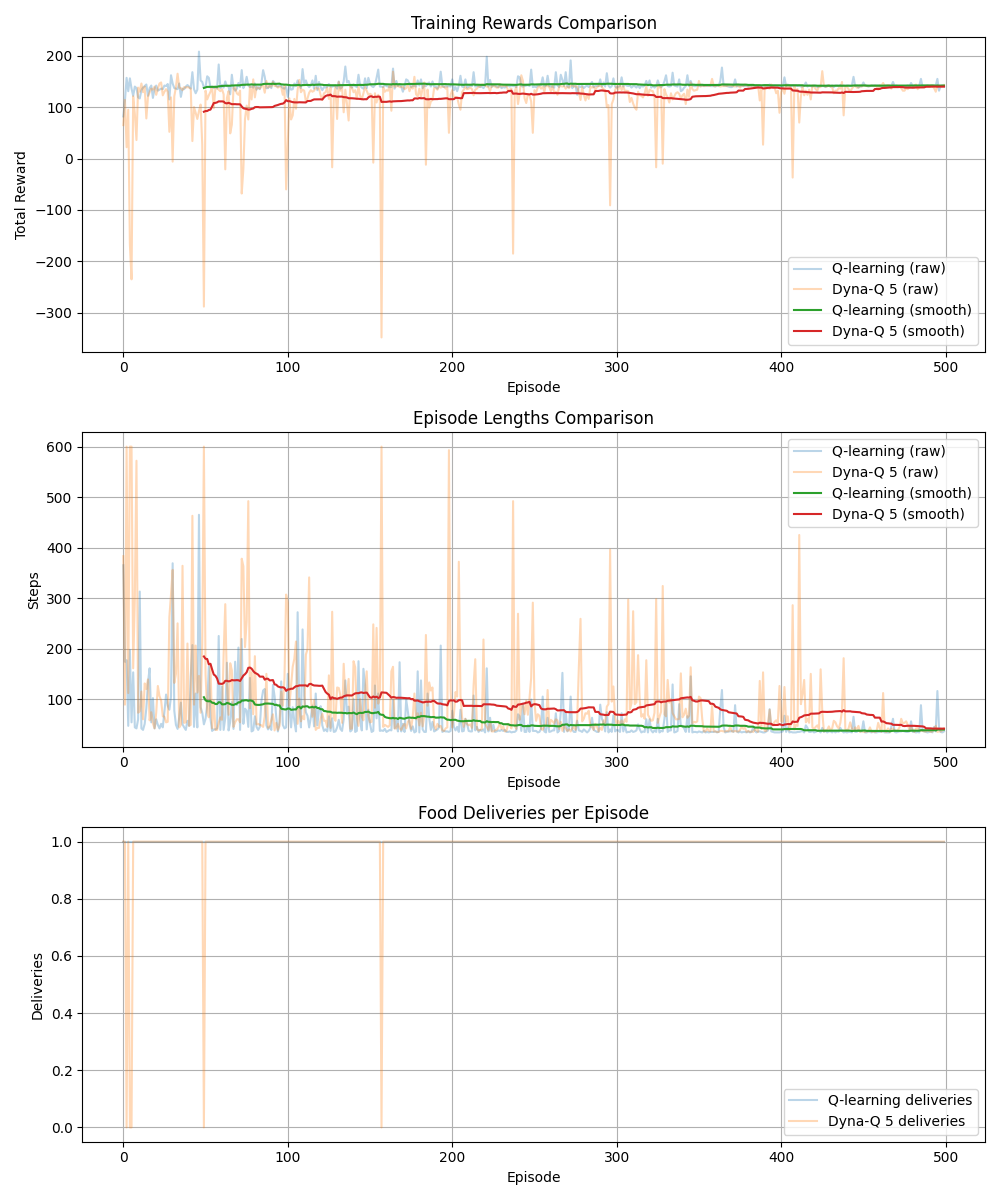
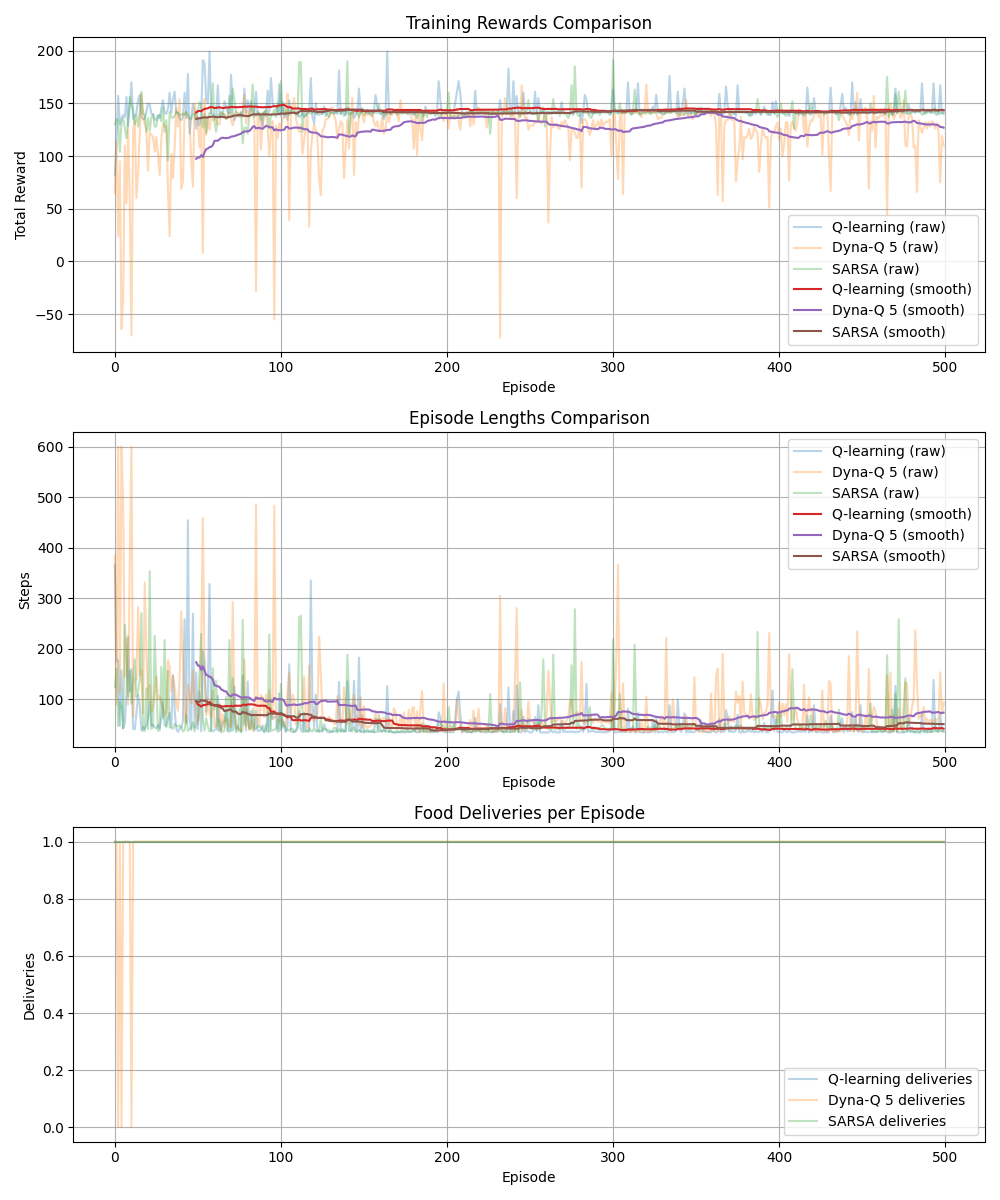
adding SARSA and comparison

diff --git a/testbed.py b/testbed.py
@@ -20,6 +20,7 @@ os.environ.setdefault("XDG_CACHE_HOME", os.path.join(tempfile.gettempdir(), "mat
 from hex_grid_world import HexGridWorld
 from q_learning import QLearningAgent
 from dyna_q import DynaQAgent
+from sarsa import SARSAAgent
 
 
 def train_agent(
@@ -183,9 +184,10 @@ def compare_q_vs_dyna(
     seed: Optional[int] = 42,
     output_path: Optional[str] = None,
     timestamped: bool = False,
+    include_sarsa: bool = True,
 ) -> None:
     """
-    Train both Q-learning and Dyna-Q (with the same hyperparameters) and plot a side-by-side comparison.
+    Train Q-learning, Dyna-Q (with the same hyperparameters) and optionally SARSA, then plot a side-by-side comparison.
     Adds rolling mean smoothing and logs deliveries/eval summaries.
     """
     # Common hyperparams and seed for reproducibility
@@ -216,6 +218,21 @@ def compare_q_vs_dyna(
         seed=seed,
     )
 
+    sarsa_rewards = sarsa_lengths = sarsa_deliveries = sarsa_agent = None
+    if include_sarsa:
+        sarsa_rewards, sarsa_lengths, sarsa_deliveries, sarsa_agent = train_agent(
+            animate=False,
+            agent_cls=SARSAAgent,
+            episodes=episodes,
+            epsilon=epsilon,
+            epsilon_decay=epsilon_decay,
+            min_epsilon=min_epsilon,
+            max_steps=max_steps,
+            collect_deliveries=True,
+            return_agent=True,
+            seed=seed,
+        )
+
     import matplotlib
     matplotlib.use("Agg")
     import matplotlib.pyplot as plt
@@ -230,12 +247,17 @@ def compare_q_vs_dyna(
     # Rewards with smoothing
     axes[0].plot(q_rewards, alpha=0.3, label="Q-learning (raw)")
     axes[0].plot(dyna_rewards, alpha=0.3, label=f"Dyna-Q {planning_steps} (raw)")
+    if sarsa_rewards:
+        axes[0].plot(sarsa_rewards, alpha=0.3, label="SARSA (raw)")
     q_smooth = rolling_mean(q_rewards)
     d_smooth = rolling_mean(dyna_rewards)
+    s_smooth = rolling_mean(sarsa_rewards) if sarsa_rewards else []
     if len(q_smooth) > 0:
         axes[0].plot(range(smooth_window - 1, smooth_window - 1 + len(q_smooth)), q_smooth, label="Q-learning (smooth)")
     if len(d_smooth) > 0:
         axes[0].plot(range(smooth_window - 1, smooth_window - 1 + len(d_smooth)), d_smooth, label=f"Dyna-Q {planning_steps} (smooth)")
+    if len(s_smooth) > 0:
+        axes[0].plot(range(smooth_window - 1, smooth_window - 1 + len(s_smooth)), s_smooth, label="SARSA (smooth)")
     axes[0].set_title('Training Rewards Comparison')
     axes[0].set_xlabel('Episode')
     axes[0].set_ylabel('Total Reward')
@@ -245,12 +267,17 @@ def compare_q_vs_dyna(
     # Lengths with smoothing
     axes[1].plot(q_lengths, alpha=0.3, label="Q-learning (raw)")
     axes[1].plot(dyna_lengths, alpha=0.3, label=f"Dyna-Q {planning_steps} (raw)")
+    if sarsa_lengths:
+        axes[1].plot(sarsa_lengths, alpha=0.3, label="SARSA (raw)")
     ql_smooth = rolling_mean(q_lengths)
     dl_smooth = rolling_mean(dyna_lengths)
+    sl_smooth = rolling_mean(sarsa_lengths) if sarsa_lengths else []
     if len(ql_smooth) > 0:
         axes[1].plot(range(smooth_window - 1, smooth_window - 1 + len(ql_smooth)), ql_smooth, label="Q-learning (smooth)")
     if len(dl_smooth) > 0:
         axes[1].plot(range(smooth_window - 1, smooth_window - 1 + len(dl_smooth)), dl_smooth, label=f"Dyna-Q {planning_steps} (smooth)")
+    if len(sl_smooth) > 0:
+        axes[1].plot(range(smooth_window - 1, smooth_window - 1 + len(sl_smooth)), sl_smooth, label="SARSA (smooth)")
     axes[1].set_title('Episode Lengths Comparison')
     axes[1].set_xlabel('Episode')
     axes[1].set_ylabel('Steps')
@@ -260,15 +287,18 @@ def compare_q_vs_dyna(
     # Deliveries
     axes[2].plot(q_deliveries, alpha=0.3, label="Q-learning deliveries")
     axes[2].plot(dyna_deliveries, alpha=0.3, label=f"Dyna-Q {planning_steps} deliveries")
+    if sarsa_deliveries:
+        axes[2].plot(sarsa_deliveries, alpha=0.3, label="SARSA deliveries")
     axes[2].set_title('Food Deliveries per Episode')
     axes[2].set_xlabel('Episode')
     axes[2].set_ylabel('Deliveries')
     axes[2].grid(True)
     axes[2].legend()
 
-    base_dir = os.path.join("results", "comparisons")
+    # Keep SARSA comparisons in their own folder; overwrite by default unless timestamped=True.
+    base_dir = os.path.join("results", "comparisons_with_sarsa" if include_sarsa else "comparisons")
     if timestamped:
-        run_dir = os.path.join(base_dir, datetime.now().strftime("%Y%m%d_%H%M%S"))
+        run_dir = os.path.join(base_dir, datetime.datetime.now().strftime("%Y%m%d_%H%M%S"))
     else:
         run_dir = base_dir
     os.makedirs(run_dir, exist_ok=True)
@@ -287,7 +317,7 @@ def compare_q_vs_dyna(
             epsilon=0.0,
             epsilon_decay=1.0,
             min_epsilon=0.0,
-            **({} if agent_cls is QLearningAgent else {"planning_steps": planning_steps}),
+            **({"planning_steps": planning_steps} if agent_cls is DynaQAgent else {}),
         )
         eval_agent.q_table = dict(q_table)
         eval_world = HexGridWorld(train=False, worldType=1, animate=False)
@@ -322,9 +352,12 @@ def compare_q_vs_dyna(
     discount_factor = 0.9
     q_eval = greedy_eval(QLearningAgent, q_agent.q_table)
     d_eval = greedy_eval(DynaQAgent, dyna_agent.q_table)
+    s_eval = greedy_eval(SARSAAgent, sarsa_agent.q_table) if include_sarsa else None
     print("Greedy eval (50 eps):")
     print(f"  Q-learning:    avg_reward={q_eval[0]:.2f}, avg_steps={q_eval[1]:.1f}, avg_deliveries={q_eval[2]:.2f}")
     print(f"  Dyna-Q({planning_steps}): avg_reward={d_eval[0]:.2f}, avg_steps={d_eval[1]:.1f}, avg_deliveries={d_eval[2]:.2f}")
+    if s_eval:
+        print(f"  SARSA:         avg_reward={s_eval[0]:.2f}, avg_steps={s_eval[1]:.1f}, avg_deliveries={s_eval[2]:.2f}")
 
 
 def compare_q_vs_dyna_suite(
@@ -340,6 +373,7 @@ def compare_q_vs_dyna_suite(
 ) -> None:
     """
     Run multiple compare_q_vs_dyna configurations (planning_depth x epsilon schedule) and save separate plots.
+    Each comparison includes Q-learning, Dyna-Q, and SARSA.
     """
     base_dir = os.path.join("results", "comparisons")
     if timestamped:

diff --git a/test_runner.py b/test_runner.py
@@ -8,15 +8,21 @@ How to use:
 Available tests:
 - compare_q_vs_dyna_single(): Q-learning vs Dyna-Q (planning_steps configurable).
 - compare_q_vs_dyna_suite(): small grid over planning/epsilon/decay; saves plots.
+- compare_q_dyna_sarsa(): Q-learning vs Dyna-Q vs SARSA; overwrites unless timestamped.
+- sarsa_smoothed_plot(): single SARSA run with ε-decay and a rolling-mean plot.
 - hyperparameter_sweep(): Q-learning vs Dyna-Q (planning 3/5) over a small lr/gamma/eps/decay grid; saves CSV and plots.
 
 Results paths:
-- Comparisons: results/comparisons/ (timestamped if you pass timestamped=True).
+- Comparisons (Q vs Dyna): results/comparisons/ (timestamped if you pass timestamped=True).
+- Comparisons (with SARSA): results/comparisons_with_sarsa/ (timestamped optional).
+- SARSA smoothed plot: defaults to training_results_sarsa_smoothed.png (set output_path to override).
 - Hyperparameter sweeps: results/hyperparameter_sweeps/ (timestamped optional).
 """
 
 from testbed import compare_q_vs_dyna, compare_q_vs_dyna_suite
 from testbed_hyperparameters import main as hyperparameter_sweep
+from testbed import train_agent
+from sarsa import SARSAAgent
 
 
 def compare_q_vs_dyna_single():
@@ -35,6 +41,26 @@ def compare_q_vs_dyna_single():
         seed=42,
         timestamped=False,  # set True to avoid overwriting
         output_path=None,   # default path if None
+    )
+
+
+def compare_q_dyna_sarsa():
+    """
+    Single comparison that always includes SARSA alongside Q-learning and Dyna-Q.
+    Uses the same knobs as compare_q_vs_dyna_single, but forces include_sarsa=True.
+    """
+    compare_q_vs_dyna(
+        planning_steps=5,
+        epsilon=0.3,
+        epsilon_decay=0.99,
+        min_epsilon=0.05,
+        episodes=500,
+        max_steps=600,
+        smooth_window=50,
+        seed=42,
+        timestamped=False,
+        output_path=None,
+        include_sarsa=True,
     )
 
 
@@ -64,12 +90,60 @@ def hyperparameter_sweep_run():
     hyperparameter_sweep(timestamped=False)  # set True for dated run folder
 
 
+def sarsa_smoothed_plot(
+    episodes: int = 500,
+    epsilon: float = 0.3,
+    epsilon_decay: float = 0.995,
+    min_epsilon: float = 0.05,
+    max_steps: int = 600,
+    window: int = 50,
+    seed: int | None = None,
+    output_path: str = "training_results_sarsa_smoothed.png",
+):
+    """
+    Run SARSA with an epsilon schedule and save a rolling-mean rewards plot.
+    """
+    import numpy as np
+    import matplotlib
+    matplotlib.use("Agg")
+    import matplotlib.pyplot as plt
+
+    rewards, _ = train_agent(
+        animate=False,
+        agent_cls=SARSAAgent,
+        agent_kwargs={"epsilon_decay": epsilon_decay, "min_epsilon": min_epsilon},
+        episodes=episodes,
+        epsilon=epsilon,
+        epsilon_decay=epsilon_decay,
+        min_epsilon=min_epsilon,
+        max_steps=max_steps,
+        seed=seed,
+    )
+
+    weights = np.ones(window) / window
+    smooth = np.convolve(rewards, weights, mode="valid") if len(rewards) >= window else []
+
+    fig, ax = plt.subplots()
+    ax.plot(rewards, alpha=0.3, label="raw")
+    if len(smooth) > 0:
+        ax.plot(range(window - 1, window - 1 + len(smooth)), smooth, label=f"rolling mean ({window})")
+    ax.set_title(f"SARSA rewards (ε={epsilon}, decay={epsilon_decay}, min={min_epsilon}, episodes={episodes})")
+    ax.set_xlabel("Episode")
+    ax.set_ylabel("Total Reward")
+    ax.legend()
+    plt.tight_layout()
+    plt.savefig(output_path)
+    print(f"SARSA smoothed plot saved to {output_path}")
+
+
 def main():
     # Uncomment the test(s) you want to run:
 
     # compare_q_vs_dyna_single()
+    # compare_q_dyna_sarsa()
     # compare_q_vs_dyna_grid()
     # hyperparameter_sweep_run()
+    # sarsa_smoothed_plot()
 
     print("No tests selected. Edit test_runner.py main() to uncomment a test.")
 

diff --git a/src/sarsa.py b/src/sarsa.py
@@ -1,0 +1,70 @@
+"""
+SARSA implementation for ant agents.
+On-policy TD control using epsilon-greedy behavior/target.
+"""
+
+import pickle
+import random
+from typing import Dict, Tuple, Any, Optional
+
+
+class SARSAAgent:
+    def __init__(
+        self,
+        learning_rate: float = 0.1,
+        discount_factor: float = 0.9,
+        epsilon: float = 0.9,
+        epsilon_decay: float = 1,
+        min_epsilon: float = 0.01,
+        n_actions: int = 5,
+        seed: Optional[int] = None,
+    ):
+        self.learning_rate = learning_rate
+        self.discount_factor = discount_factor
+        self.epsilon = epsilon
+        self.epsilon_decay = epsilon_decay
+        self.min_epsilon = min_epsilon
+        self.n_actions = n_actions
+        self.q_table: Dict[Tuple[Any, int], float] = {}
+        self.rng = random.Random(seed)
+
+    def _select_action(self, state: Tuple) -> int:
+        if self.rng.random() < self.epsilon:
+            return self.rng.choice(range(self.n_actions))
+        q_values = [self.q_table.get((state, a), 0.0) for a in range(self.n_actions)]
+        max_q = max(q_values)
+        best_actions = [a for a, q in enumerate(q_values) if q == max_q]
+        return self.rng.choice(best_actions)
+
+    def step(self, state: Tuple, env_step_func) -> Tuple[int, int, Tuple]:
+        # On-policy SARSA update using the next epsilon-greedy action with terminal handling.
+        action = self._select_action(state)
+        reward, next_state, terminated, truncated = env_step_func(action)
+
+        # Only bootstrap if the episode continues.
+        if terminated or truncated:
+            td_target = reward
+        else:
+            next_action = self._select_action(next_state)
+            next_q = self.q_table.get((next_state, next_action), 0.0)
+            td_target = reward + self.discount_factor * next_q
+
+        current_q = self.q_table.get((state, action), 0.0)
+        td_error = td_target - current_q
+        self.q_table[(state, action)] = current_q + self.learning_rate * td_error
+
+        return action, reward, next_state
+
+    def decay_epsilon(self):
+        self.epsilon = max(self.min_epsilon, self.epsilon * self.epsilon_decay)
+
+    def save_q_table(self, filename: str):
+        with open(filename, 'wb') as f:
+            pickle.dump(self.q_table, f)
+
+    def load_q_table(self, filename: str):
+        try:
+            with open(filename, 'rb') as f:
+                self.q_table = pickle.load(f)
+        except FileNotFoundError:
+            print(f"Q-table file {filename} not found. Starting with empty Q-table.")

diff --git a/testbed_hyperparameters.py b/testbed_hyperparameters.py
@@ -20,6 +20,7 @@ import matplotlib.pyplot as plt
 from hex_grid_world import HexGridWorld
 from q_learning import QLearningAgent
 from dyna_q import DynaQAgent
+from sarsa import SARSAAgent
 
 
 def train_agent(
@@ -33,6 +34,7 @@ def train_agent(
     animate: bool = False
 ) -> Tuple[List[int], List[int], List[int], object, object]:
     min_epsilon = 0.01
+    algo_label = agent_cls.__name__
 
     world = HexGridWorld(train=True, worldType=1, animate=animate)
 
@@ -53,7 +55,7 @@ def train_agent(
     episode_lengths = []
     episode_deliveries = []
 
-    print(f"Training with Q-learning: lr={learning_rate}, γ={discount_factor}, ε={epsilon}, ε_decay={epsilon_decay}")
+    print(f"Training with {algo_label}: lr={learning_rate}, γ={discount_factor}, ε={epsilon}, ε_decay={epsilon_decay}")
 
     for episode in range(episodes):
         world.reset()
@@ -153,6 +155,7 @@ def main(timestamped: bool = False) -> None:
 
     algos = [
         ("q_learning", QLearningAgent, {}),
+        ("sarsa", SARSAAgent, {}),
         ("dyna_q_p3", DynaQAgent, {"planning_steps": 3}),
         ("dyna_q_p5", DynaQAgent, {"planning_steps": 5}),
     ]
